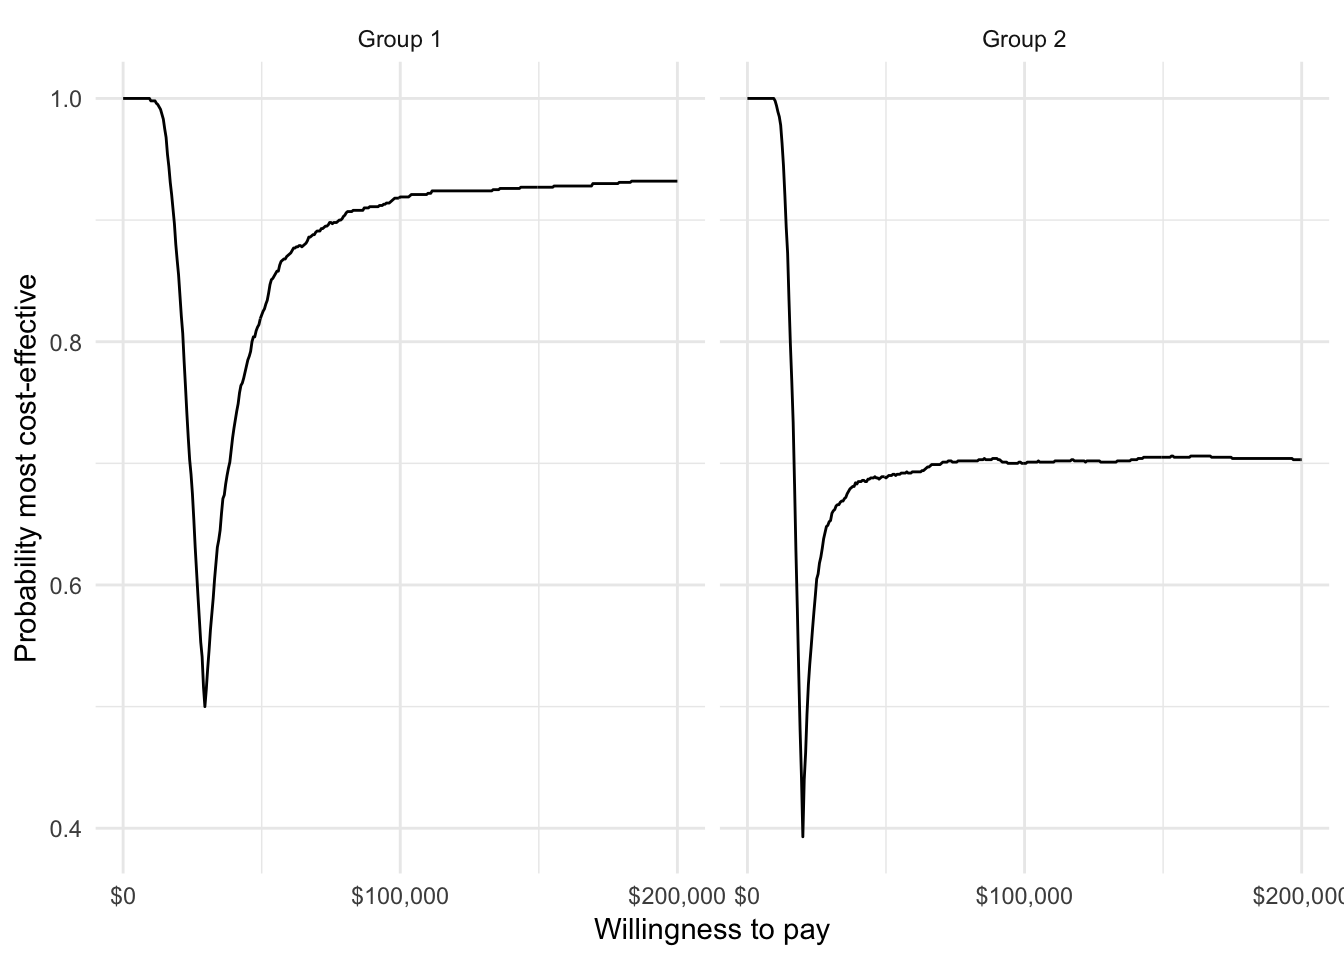
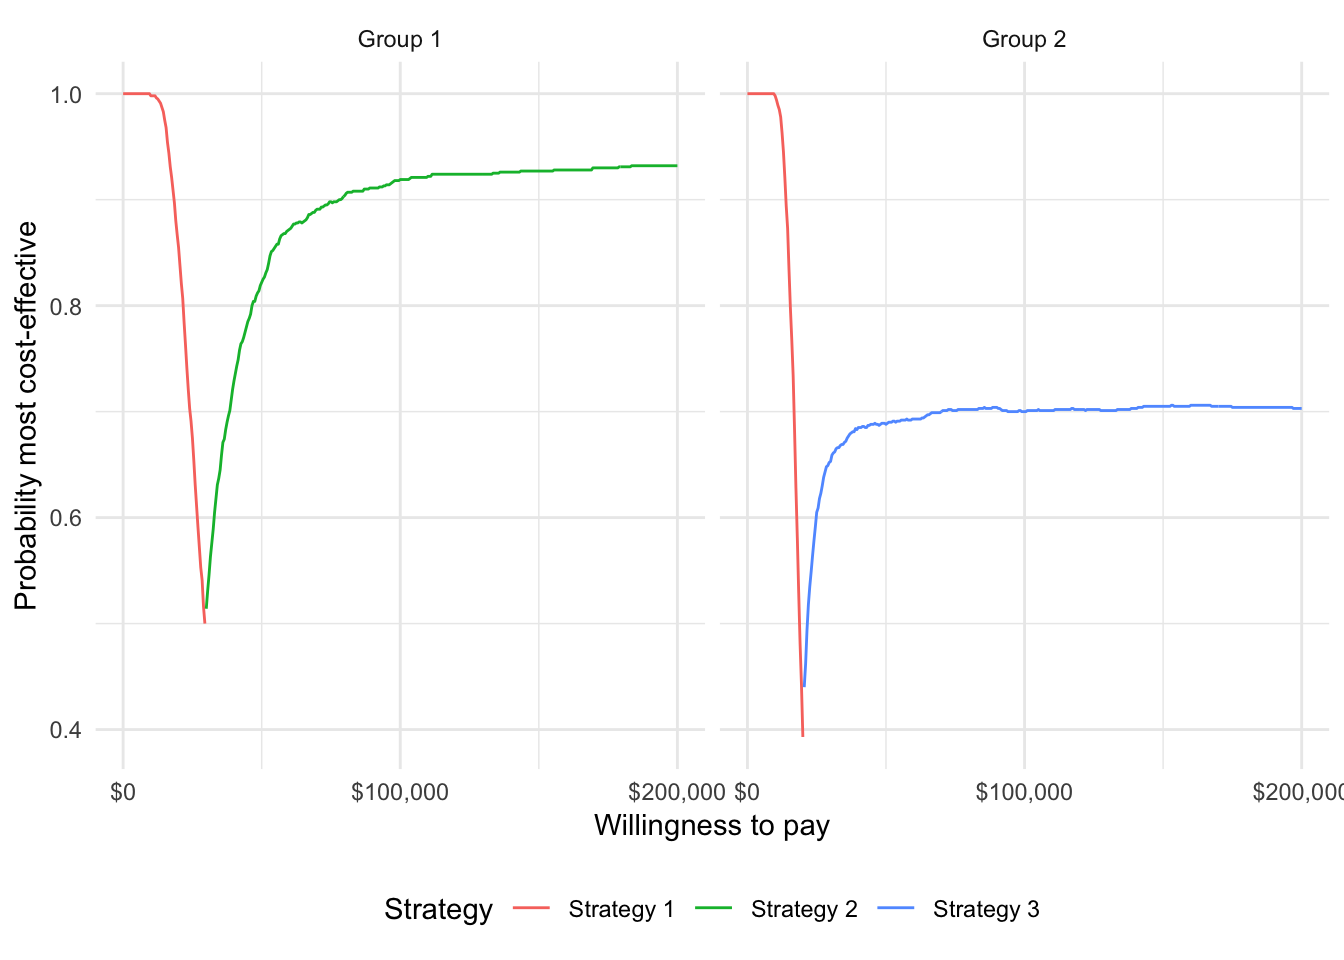
Update CEAF plot to display optimal treatment strategy by WTP

diff --git a/docs/articles/icea.html b/docs/articles/icea.html
@@ -82,7 +82,7 @@
     <div class="page-header toc-ignore">
       <h1>Individualized cost-effectiveness analysis (iCEA)</h1>
             
-            <h4 class="date">2018-12-17</h4>
+            <h4 class="date">2018-12-22</h4>
       
       <small class="dont-index">Source: <a href="https://github.com/InnovationValueInitiative/hesim/blob/master/vignettes/icea.Rmd"><code>vignettes/icea.Rmd</code></a></small>
       <div class="hidden name"><code>icea.Rmd</code></div>
@@ -430,7 +430,7 @@ ggplot2<span class="op">::</span><span class="kw"><a href="https://ggplot2.tidyv
 <a href="#cost-effectiveness-acceptability-frontier-ceaf" class="anchor"></a><span class="header-section-number">3.2</span> Cost-effectiveness acceptability frontier (CEAF)</h2>
 <p>One drawback of the previous plot is that the probability of being cost-effective cannot be used to determine the optimal treatment option. Instead, if a decision-makers objective is to maximize health gain, then decisions should be based on the expected net monetary benefit <span class="citation">(Barton, Briggs, and Fenwick 2008)</span>. The cost-effectiveness acceptability frontier (CEAF), which plots the probability that the optimal treatment strategy (i.e., the strategy with the highest expected NMB) is cost-effective, is appropriate in this context.</p>
 <p>A CEAF curve can be easily created by using the <code>best</code> column to subset to the treatment strategy with the highest expected NMB for each willingness to pay value and group.</p>
-<div class="sourceCode"><pre class="sourceCode r"><code class="sourceCode r">ggplot2<span class="op">::</span><span class="kw"><a href="https://ggplot2.tidyverse.org/reference/ggplot.html">ggplot</a></span>(icea<span class="op">$</span>mce[best <span class="op">==</span><span class="st"> </span><span class="dv">1</span>], <span class="kw"><a href="https://ggplot2.tidyverse.org/reference/aes.html">aes</a></span>(<span class="dt">x =</span> k, <span class="dt">y =</span> prob)) <span class="op">+</span>
+<div class="sourceCode"><pre class="sourceCode r"><code class="sourceCode r">ggplot2<span class="op">::</span><span class="kw"><a href="https://ggplot2.tidyverse.org/reference/ggplot.html">ggplot</a></span>(icea<span class="op">$</span>mce[best <span class="op">==</span><span class="st"> </span><span class="dv">1</span>], <span class="kw"><a href="https://ggplot2.tidyverse.org/reference/aes.html">aes</a></span>(<span class="dt">x =</span> k, <span class="dt">y =</span> prob, <span class="dt">col =</span> strategy)) <span class="op">+</span>
 <span class="st">  </span><span class="kw"><a href="https://ggplot2.tidyverse.org/reference/geom_path.html">geom_line</a></span>() <span class="op">+</span><span class="st"> </span><span class="kw"><a href="https://ggplot2.tidyverse.org/reference/facet_wrap.html">facet_wrap</a></span>(<span class="op">~</span>grp) <span class="op">+</span><span class="st"> </span><span class="kw"><a href="https://ggplot2.tidyverse.org/reference/labs.html">xlab</a></span>(<span class="st">"Willingness to pay"</span>) <span class="op">+</span>
 <span class="st">  </span><span class="kw"><a href="https://ggplot2.tidyverse.org/reference/labs.html">ylab</a></span>(<span class="st">"Probability most cost-effective"</span>) <span class="op">+</span>
 <span class="st">  </span><span class="kw"><a href="https://ggplot2.tidyverse.org/reference/scale_continuous.html">scale_x_continuous</a></span>(<span class="dt">breaks =</span> <span class="kw">seq</span>(<span class="dv">0</span>, ktop, <span class="dv">100000</span>), <span class="dt">label =</span> scales<span class="op">::</span>dollar) <span class="op">+</span>
